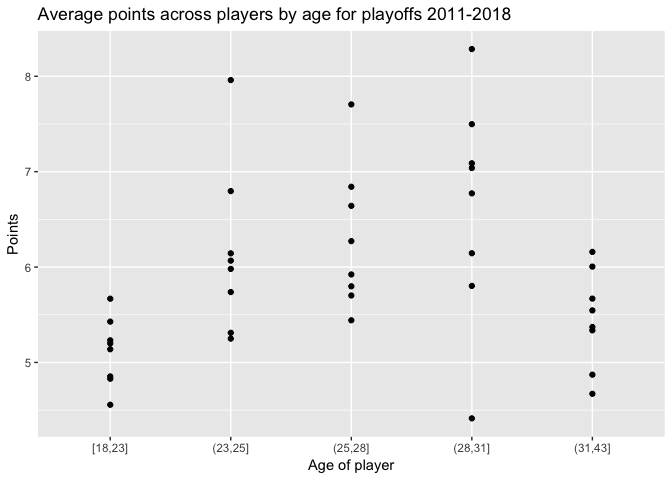
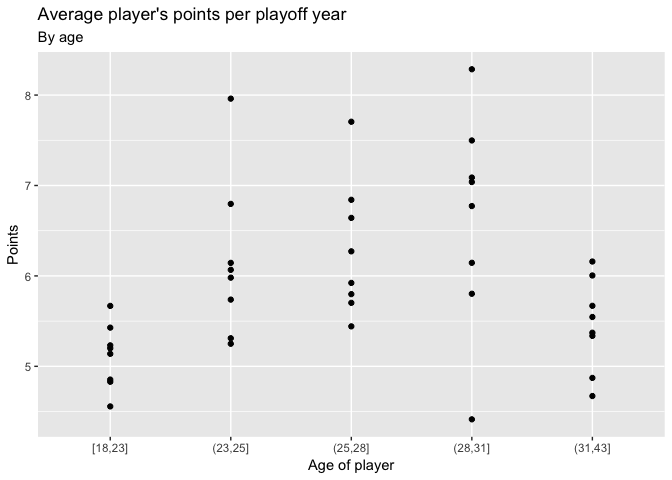
cleaner chart titles

diff --git a/README.md b/README.md
@@ -211,7 +211,7 @@ avg_points <- nhl %>%
 avg_points %>% 
   ggplot( aes( past_playoffs, pool_pts )) +
   geom_point() +
-  labs(title = "Average points per playoff year across all players",
+  labs(title = "Average player's points per playoff year",
        subtitle = "By years of playoff experience",
        x = "number of past playoffs played",
        y = "points")
@@ -241,7 +241,6 @@ avg_points %>%
   geom_point() +
   geom_line(data = grid, color = "red", size = 1) +
   labs(title = "Fitting model 1: playoff experience",
-       subtitle = "By years of playoff experience",
        x = "number of past playoffs played",
        y = "points")
 ```
@@ -285,7 +284,8 @@ points_by_age <- nhl %>%
 points_by_age %>% 
   ggplot( aes(age_bin, pool_pts) ) +
   geom_point() +
-  labs( title = "Average points across players by age for playoffs 2011-2018",
+  labs(title = "Average player's points per playoff year",
+       subtitle = "By age",
         x = "Age of player",
         y = "Points")
 ```
